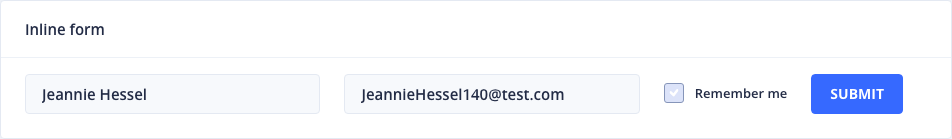
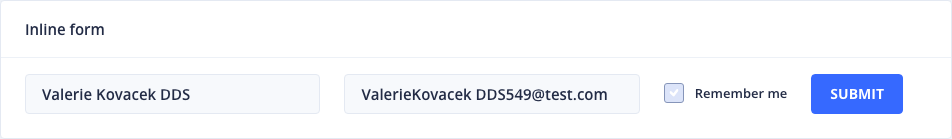
finished environment varaibles lesson

Changed region(s): [[0.3655, 0.6331, 0.6397, 0.7482], [0.0305, 0.6331, 0.2132, 0.7194]]

diff --git a/playwright.config.ts b/playwright.config.ts
@@ -1,17 +1,17 @@
 import { defineConfig, devices } from '@playwright/test';
-
+import type { TestOptions } from './test-options';
 /**
  * Read environment variables from file.
  * https://github.com/motdotla/dotenv
  */
-// import dotenv from 'dotenv';
-// import path from 'path';
-// dotenv.config({ path: path.resolve(__dirname, '.env') });
+  import dotenv from 'dotenv';
+   import path from 'path';
+   dotenv.config({ path: path.resolve(__dirname, '.env') });
 
 /**
  * See https://playwright.dev/docs/test-configuration.
  */
-export default defineConfig({
+export default defineConfig<TestOptions>({
   // timeout : 10000, // 10,000 milliseconds manual timeout time global settings
   // globalTimeout: 60000,
   /*expect: {
@@ -31,7 +31,11 @@ export default defineConfig({
   /* Shared settings for all the projects below. See https://playwright.dev/docs/api/class-testoptions. */
   use: {
     /* Base URL to use in actions like `await page.goto('')`. */
-    // baseURL: 'http://localhost:3000',
+    //baseURL: 'http://localhost:4200',
+    globalsQaURL: 'https://www.globalsqa.com/demo-site/draganddrop',
+    baseURL: process.env.DEV === '1' ? 'http://localhost:4200/'
+        : process.env.STAGING == '1' ? 'http://localhost/4202/'
+        : 'http://localhost:4201',
 
     /* Collect trace when retrying the failed test. See https://playwright.dev/docs/trace-viewer */
     trace: 'on-first-retry',
@@ -49,9 +53,20 @@ export default defineConfig({
   projects: [
     {
       name: 'chromium',
+      use: { ...devices['Desktop Chrome'],
+        baseURL: 'http://localhost:4201'
+       },
+    },
+    {
+      name: 'dev',
+      use: { ...devices['Desktop Chrome'],
+        baseURL: 'https://localhost4202'
+      },
+    },
+       {
+      name: 'chromium',
       use: { ...devices['Desktop Chrome'] },
     },
-
     {
       name: 'firefox',
       use: { ...devices['Desktop Firefox'] },

diff --git a/tests/usePageObjects.spec.ts b/tests/usePageObjects.spec.ts
@@ -1,8 +1,9 @@
 import {test, expect} from '@playwright/test'
 import { PageManager } from '../page-objects/pageManager'
 import {faker} from '@faker-js/faker'
+
 test.beforeEach(async({page}) => {
-    await page.goto('http://localhost:4200/')
+    await page.goto('/')
 })
 
 test('navigate to form page', async({page}) => {
@@ -20,7 +21,7 @@ test('parametrized methods', async({page})=> {
     const randomEmail = `${randomFullName.replace(" ", "")}${faker.number.int(1000)}@test.com`
 
     await pm.navigateTo().formLayoutsPage()
-    await pm.onFormLayoutsPage().submitUsingTheGridFormWithCredentialsAndSelectOption('test@test.com', 'Welcome', 'Option 2')
+    await pm.onFormLayoutsPage().submitUsingTheGridFormWithCredentialsAndSelectOption(process.env.USERNAME!, process.env.PASSWORD!, 'Option 2')
     await page.screenshot({path: 'screenshots/formsLayoutsPage.png'})
     const buffer = await page.screenshot()
     console.log(buffer.toString('base64'))

diff --git a/tests/firstTest.spec.ts b/tests/firstTest.spec.ts
@@ -11,7 +11,7 @@ import {test, expect} from '@playwright/test';
 
 //in this case before each happens before all test
 test.beforeEach(async({page}) => {      //hooks basically repeating stuff
-    await page.goto('http://localhost:4200/')       //if they are promise methods make sure you use await
+    await page.goto('/')       //if they are promise methods make sure you use await
     await page.getByText('Forms').click()
     await page.getByText('Form Layouts').click()
 })

diff --git a/tests/dragAndDropWithiFrame.spec.ts b/tests/dragAndDropWithiFrame.spec.ts
@@ -1,8 +1,9 @@
-import {test, expect} from '@playwright/test'
+import { expect} from '@playwright/test'
+import {test} from '../test-options'
 
 
-test('drag and drop with iframe', async({page}) => {
-    await page.goto('https://www.globalsqa.com/demo-site/draganddrop')
+test('drag and drop with iframe', async({page, globalsQaURL}) => {
+    await page.goto(globalsQaURL)
 
     const frame = page.frameLocator('[rel-title="Photo Manager"] iframe')
 

diff --git a/tests/autoWaiting.spec.ts b/tests/autoWaiting.spec.ts
@@ -1,7 +1,7 @@
 import {test, expect} from '@playwright/test'
 
 test.beforeEach(async({page}, testInfo) => {
-    await page.goto('http://uitestingplayground.com/ajax')
+    await page.goto(process.env.URL!)
     page.getByText('Button Triggering Ajax Request').click()
     testInfo.setTimeout(testInfo.timeout + 2000) //updatin timeout before each 
 })

diff --git a/tests/uiComponents.spec.ts b/tests/uiComponents.spec.ts
@@ -3,7 +3,7 @@ import {test, expect} from '@playwright/test'
 //test.describe.configure({mode: 'parallel'})
 
 test.beforeEach(async ({page}) => {
-    await page.goto('http://localhost:4200/')
+    await page.goto('/')
 })
 
 

diff --git a/test-options.ts b/test-options.ts
@@ -1,0 +1,9 @@
+import {test as base} from '@playwright/test'
+
+export type TestOptions = {
+    globalsQaURL: string
+}
+
+export const test = base.extend<TestOptions>({
+    globalsQaURL: ['', {option: true}]
+})
